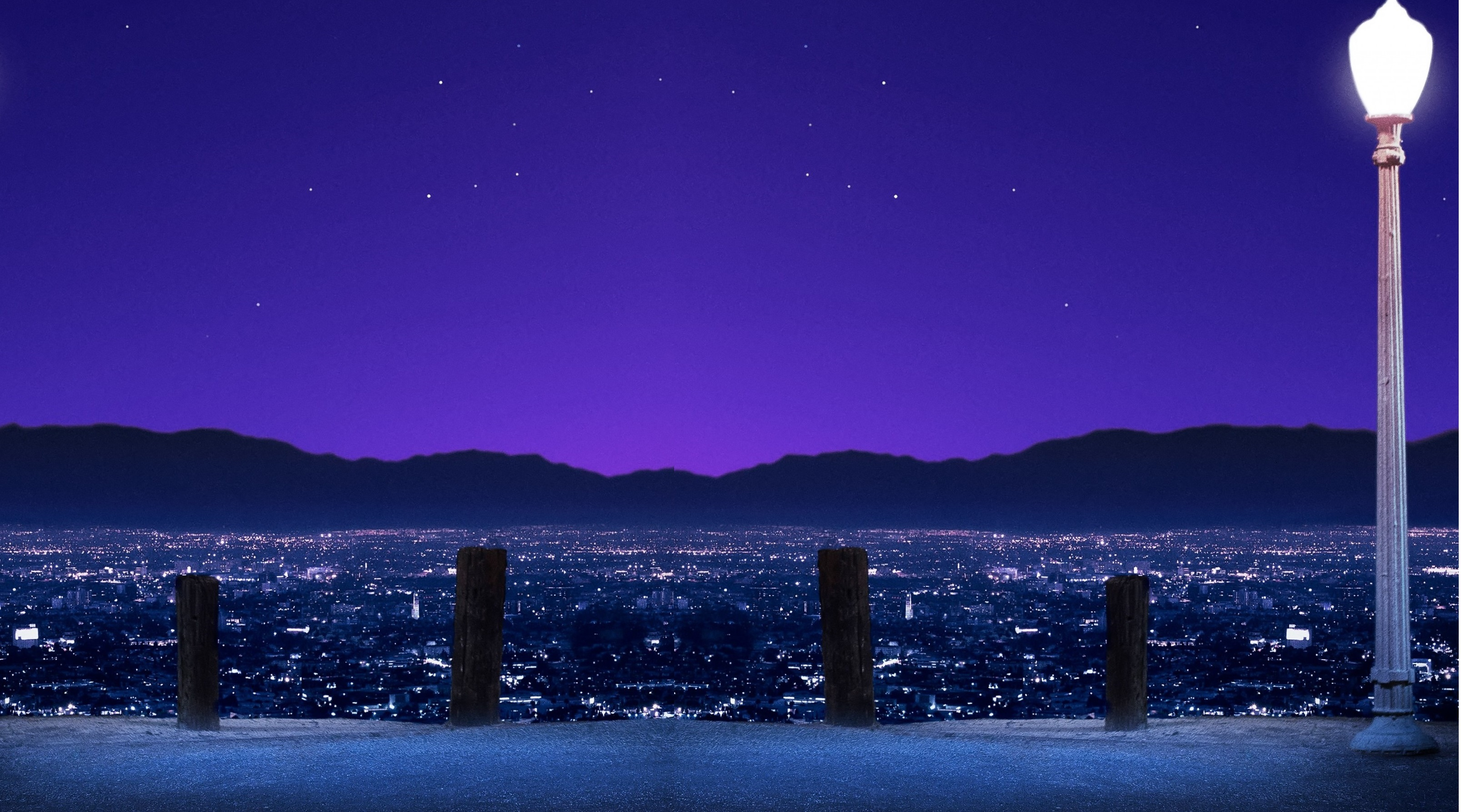
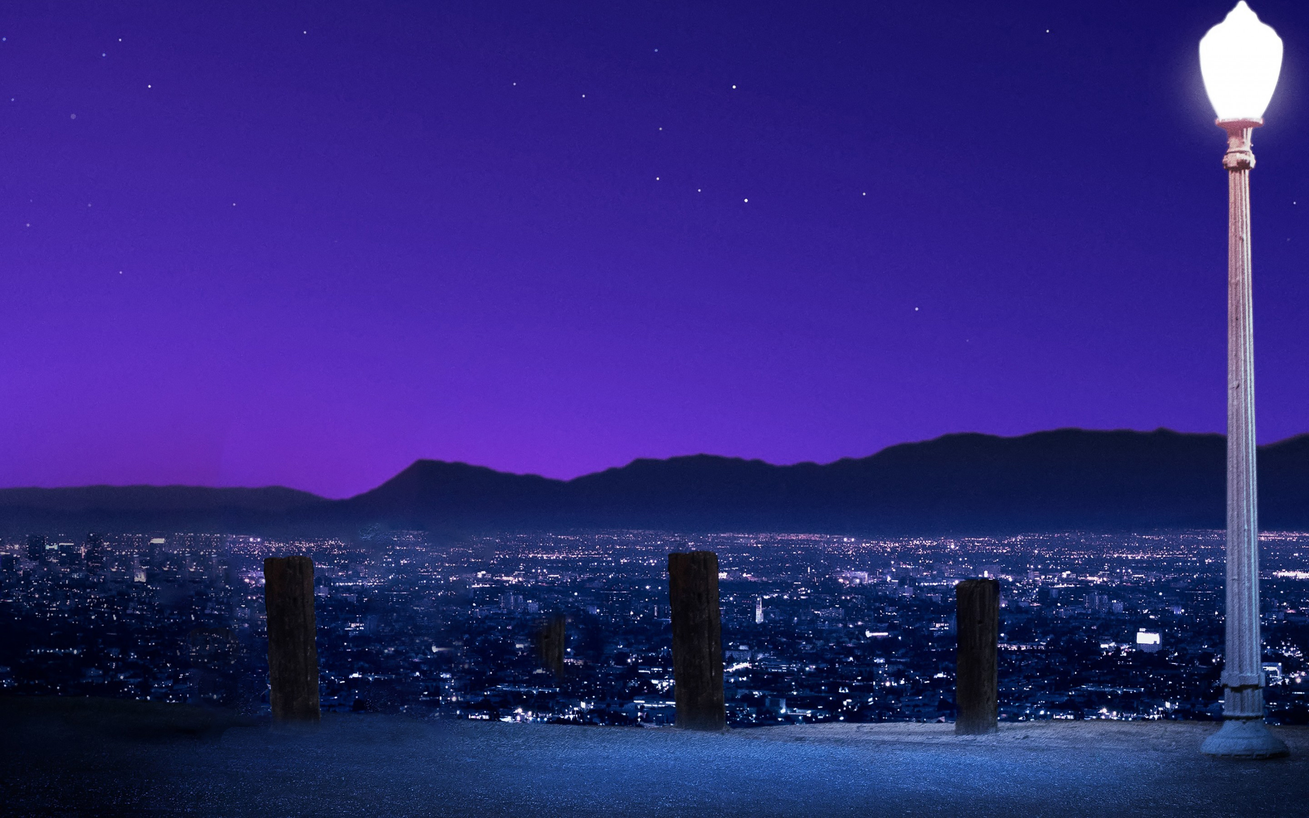
further stylize order box, add hover effects to pizza creation button

diff --git a/css/styles.css b/css/styles.css
@@ -34,7 +34,7 @@
   margin-top: 1em;
 }
 body {
-  background-image: url("../img/zazaland.jpg");
+  background-image: url("../img/zazaland2.jpg");
   background-size: cover;
   background-repeat: no-repeat;
   background-color: rgba(0, 0, 0, 1);
@@ -66,17 +66,23 @@ h2 {
 }
 #order .row {
   height: 4em;
+  line-height: 3em;
   color: white;
   text-align: center;
 }
 #order #labels {
   background-color: rgba(0, 0, 0, 0.25);
   font-variant: small-caps;
-  padding-top: 5px;
   height: 1.8em;
+  line-height: 1.8em;
 }
 .col-sm-9 p {
   text-align: left;
+}
+#pizza-creation:hover {
+  animation: textGlow 1s linear infinite;
+  color: #ebebeb;
+  cursor: pointer;
 }
 
 .modal-background {
